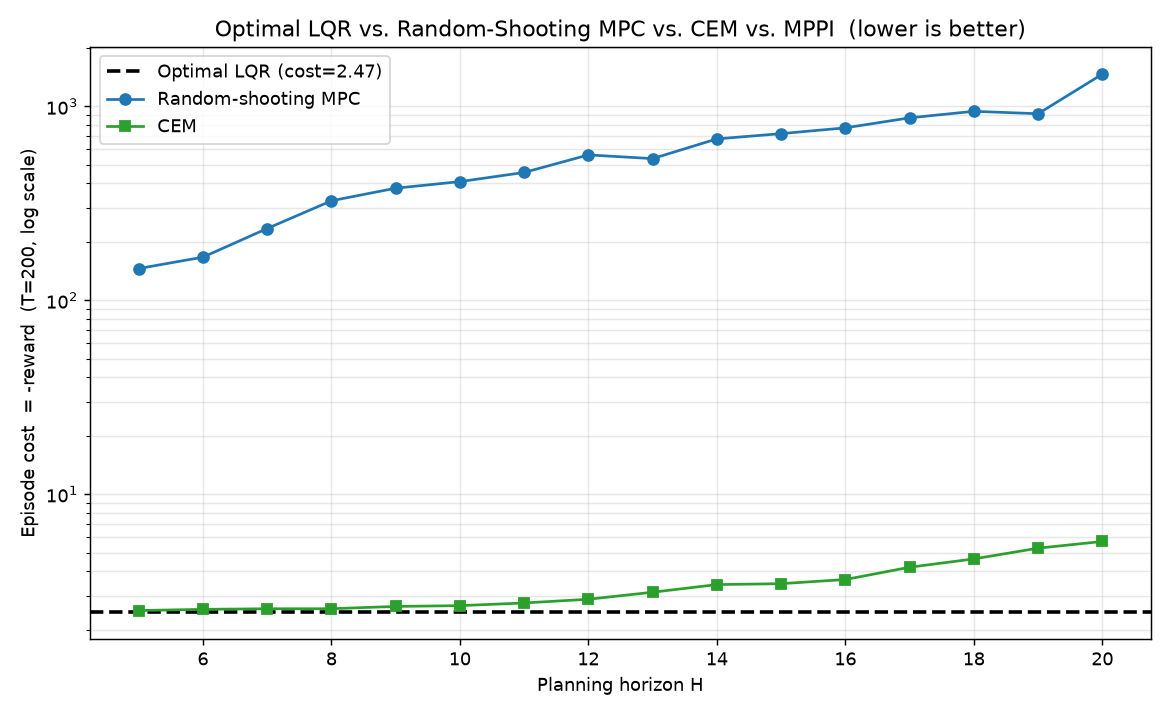
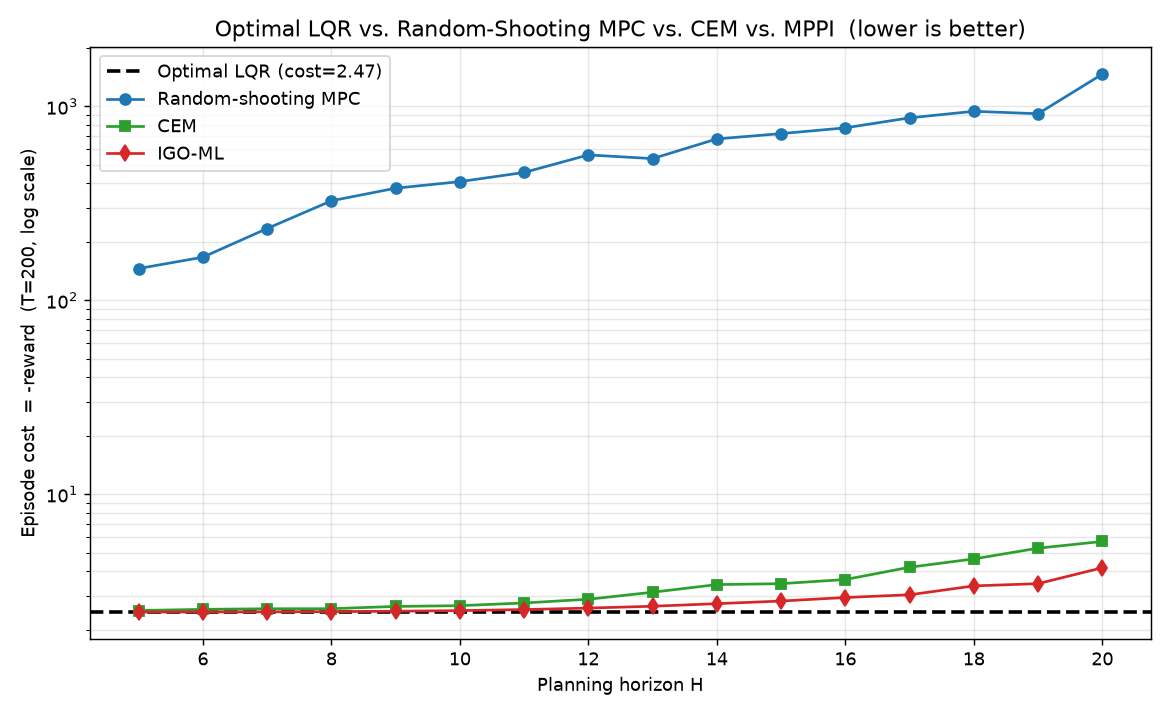
Implement IGO

diff --git a/IGO.py b/IGO.py
@@ -1,0 +1,141 @@
+"""
+IGO-ML planner for MPC
+======================
+
+A drop-in sibling of the Phase II planners (see ``phase2.py``).  Where CEM
+*hard-replaces* the Gaussian each iteration (``mu, sigma <- elite mean/std``),
+IGO-ML performs a **soft** (step-size ``dt``) update of the natural parameters
+and adds a *variance-injection* term that counteracts premature convergence:
+
+    variance_injection = dt * (1 - dt) * (mu_star - mu)^2
+    sigma^2 <- (1 - dt) * sigma^2 + dt * sigma_star^2 + variance_injection
+    mu      <- (1 - dt) * mu      + dt * mu_star
+
+This is exactly the update studied on the toy linear problem in
+``premature.py`` -- here it is lifted from a scalar to the
+(horizon x action_dim) sampling distribution over action sequences and used as
+the inner loop of MPC, with the same warm-start / receding-horizon wrapper as
+CEM and MPPI.
+
+Note: with ``dt = 1`` the injection term vanishes and the update reduces to
+plain CEM (``mu = mu_star``, ``sigma^2 = sigma_star^2``); ``dt < 1`` is what
+makes IGO-ML a *smoothed* CEM that resists collapsing the search variance.
+"""
+
+from __future__ import annotations
+
+import numpy as np
+
+from lqr_env import LQREnv
+
+# reuse the shared trajectory-evaluation and rollout helpers from Phase II so
+# IGO plugs into exactly the same MPC harness as CEM / MPPI.
+from phase2 import _rollout_returns, run_episode
+
+
+# --------------------------------------------------------------------------- #
+# IGO-ML
+# --------------------------------------------------------------------------- #
+class IGOPlanner:
+    def __init__(
+        self,
+        env: LQREnv,
+        horizon: int = 15,
+        num_samples: int = 1000,
+        num_elites: int = 50,
+        max_iters: int = 1000,
+        sigma_init: float = 0.2,
+        dt: float = 0.5,
+        tol_mu: float = 1e-3,
+        tol_sigma: float = 1e-3,
+        gamma: float = 1.0,
+        seed: int | None = None,
+    ):
+        """
+        Parameters
+        ----------
+        horizon      : planning horizon H.
+        num_samples  : sequences sampled per iteration (N).
+        num_elites   : how many top sequences drive the update (K).
+        max_iters    : iteration budget I per timestep.
+        sigma_init   : std the Gaussian is (re)initialized to each timestep.
+        dt           : IGO-ML step size in (0, 1].  dt=1 recovers CEM; smaller
+                       dt gives a slower, variance-preserving update.
+        tol_mu       : stop when ||mu - mu_prev|| < tol_mu.
+        tol_sigma    : stop when max(sigma) < tol_sigma (distribution collapsed).
+        gamma        : discount for the planned return.
+        """
+        self.env = env
+        self.horizon = int(horizon)
+        self.num_samples = int(num_samples)
+        self.num_elites = int(num_elites)
+        self.max_iters = int(max_iters)
+        self.sigma_init = float(sigma_init)
+        self.dt = float(dt)
+        self.tol_mu = float(tol_mu)
+        self.tol_sigma = float(tol_sigma)
+        self.gamma = float(gamma)
+        self.rng = np.random.default_rng(seed)
+        self.reset()
+
+    def reset(self) -> None:
+        """Clear the warm-started mean (call between episodes)."""
+        self.mu = np.zeros((self.horizon, self.env.action_dim))
+
+    def plan(self, state: np.ndarray) -> np.ndarray:
+        H, N, K = self.horizon, self.num_samples, self.num_elites
+        adim = self.env.action_dim
+        lo, hi = self.env.action_low, self.env.action_high
+        dt = self.dt
+
+        mu = self.mu                                   # warm-started mean
+        sigma = np.full((H, adim), self.sigma_init)    # reset exploration std
+
+        for times in range(self.max_iters):
+            mu_prev = mu
+
+            # 1. sample + clip
+            noise = self.rng.normal(size=(N, H, adim))
+            actions = np.clip(mu + sigma * noise, lo, hi)
+
+            # 2. evaluate
+            returns = _rollout_returns(self.env, state, actions, self.gamma)
+
+            # 3. top-K elites
+            elite_idx = np.argpartition(returns, -K)[-K:]
+            elites = actions[elite_idx]
+
+            # 4. elite statistics
+            mu_star = elites.mean(axis=0)
+            sigma_sq_star = elites.var(axis=0)
+
+            # 5. IGO-ML soft update (in variance space) + variance injection
+            sigma_sq = sigma ** 2
+            variance_injection = dt * (1 - dt) * (mu_star - mu) ** 2
+            sigma_sq = (1 - dt) * sigma_sq + dt * sigma_sq_star + variance_injection
+            mu = (1 - dt) * mu + dt * mu_star
+            sigma = np.sqrt(sigma_sq)
+
+            # convergence
+            if np.linalg.norm(mu - mu_prev) < self.tol_mu or sigma.max() < self.tol_sigma:
+                break
+
+        action = mu[0].copy()
+        if times == self.max_iters - 1:
+            print("\nHit Max Iter")
+        # warm start: shift the plan forward by one step
+        self.mu = np.vstack([mu[1:], np.zeros((1, adim))])
+        return action
+
+    def act(self, state: np.ndarray) -> np.ndarray:
+        return self.plan(state)
+
+
+if __name__ == "__main__":
+    env = LQREnv(noise_std=0.0, seed=0)
+    s0 = np.array([1.0, -1.0, 0.5])
+
+    igo = IGOPlanner(env, horizon=15, num_samples=1000, dt=0.5, seed=0)
+    total, traj = run_episode(env, igo, init_state=s0, T=200)
+    print(f"IGO-ML (H=15, N=1000, K=50, dt=0.5) reward (T=200): {total:.4f}")
+    print(f"  final state: {np.round(traj[-1], 5)}")

diff --git a/premature.py b/premature.py
@@ -1,0 +1,73 @@
+import numpy as np
+import matplotlib.pyplot as plt
+
+def linear_function(x):
+    """A simple linear objective function."""
+    return x
+
+def get_variance_trajectory(dt, q=0.25, N=2000, iterations=50):
+    """
+    Runs IGO-ML and returns the history of variance.
+    """
+    mu = 0.0
+    sigma_sq = 1.0
+    num_elites = max(1, int(N * q))
+    
+    variance_history = [sigma_sq]
+    
+    for _ in range(iterations):
+        # 1. Sample N points
+        samples = np.random.normal(mu, np.sqrt(sigma_sq), N)
+        
+        # 2. Evaluate fitness
+        fitness = linear_function(samples)
+        
+        # 3. Select elites
+        elite_indices = np.argsort(fitness)[::-1][:num_elites]
+        elites = samples[elite_indices]
+        
+        # 4. Elite statistics
+        mu_star = np.mean(elites)
+        sigma_sq_star = np.var(elites)
+        
+        # 5. IGO-ML parameter updates
+        variance_injection = dt * (1 - dt) * (mu_star - mu)**2
+        sigma_sq = (1 - dt) * sigma_sq + dt * sigma_sq_star + variance_injection
+        mu = (1 - dt) * mu + dt * mu_star
+        
+        variance_history.append(sigma_sq)
+        
+    return variance_history
+
+# --- Plotting Setup ---
+maxdt = 0.55
+dts = np.arange(0.05, maxdt, 0.05)
+q = 0.25
+iterations = 50
+
+plt.figure(figsize=(10, 6))
+colormap = plt.get_cmap('viridis')
+
+for i, dt in enumerate(dts):
+    # Get the color from the colormap based on the index
+    color = colormap(i / len(dts))
+    
+    # Run simulation
+    history = get_variance_trajectory(dt, q=q, iterations=iterations)
+    
+    # Plot the line
+    plt.plot(range(iterations + 1), history, color=color, linewidth=1.5)
+
+# Create a colorbar to act as a legend for \delta t
+sm = plt.cm.ScalarMappable(cmap=colormap, norm=plt.Normalize(vmin=0.05, vmax=maxdt))
+sm.set_array([]) # Dummy array for the colorbar
+cbar = plt.colorbar(sm, ax=plt.gca())
+cbar.set_label(r'Step Size ($\delta t$)', fontsize=12)
+
+plt.title(r'IGO-ML Variance Trajectories over Iterations ($q=0.25$)', fontsize=14)
+plt.xlabel('Iterations', fontsize=12)
+plt.ylabel(r'Variance ($\sigma^2$)', fontsize=12)
+plt.yscale('log') # Log scale helps visualize both stabilizing and exploding variances
+plt.grid(True, which="both", ls="--", alpha=0.5)
+plt.tight_layout()
+plt.show()

diff --git a/compare.py b/compare.py
@@ -40,6 +40,7 @@ from lqr_env import LQREnv
 from optimal import LQRController, run_episode as run_optimal_episode
 from phase1 import RandomShootingMPC, run_episode as run_mpc_episode
 from phase2 import CEMPlanner, MPPIPlanner, run_episode as run_plan_episode
+from IGO import IGOPlanner
 
 
 # --------------------------------------------------------------------------- #
@@ -62,6 +63,12 @@ CEM_ITERS = 1000                           # CEM max iterations per step (rely o
 MPPI_ITERS = 1000                          # MPPI max iterations per step (rely on tol)
 TEMPERATURE = 20.0                         # MPPI softmax lambda
 
+# IGO-ML specifics.  Same proposal/elites as CEM, but a soft update with step
+# size IGO_DT (< 1) plus a variance-injection term that resists premature
+# convergence.  IGO_DT = 1 would recover CEM exactly.
+IGO_ITERS = 1000                           # IGO max iterations per step (rely on tol)
+IGO_DT = 0.5                               # IGO-ML step size (soft update rate)
+
 
 RESULTS_FILE = "compare_results.npz"
 
@@ -69,7 +76,8 @@ RESULTS_FILE = "compare_results.npz"
 # cached results are stale and the sweep is re-run automatically.
 CONFIG_SIG = np.array([
     T, NUM_SAMPLES, SIGMA, SEED, REFINE_SIGMA, NUM_ELITES,
-    CEM_ITERS, MPPI_ITERS, TEMPERATURE, *INIT_STATE, *HORIZONS,
+    CEM_ITERS, MPPI_ITERS, TEMPERATURE, IGO_ITERS, IGO_DT,
+    *INIT_STATE, *HORIZONS,
 ], dtype=np.float64)
 
 
@@ -103,8 +111,8 @@ def run_sweep():
     print("-" * 70)
 
     # ---- 2) planners over horizons -------------------------------------- #
-    mpc_rewards, cem_rewards, mppi_rewards = [], [], []
-    print(f"{'H':>3} | {'MPC reward':>14} | {'CEM reward':>14} | {'MPPI reward':>14}")
+    mpc_rewards, cem_rewards, mppi_rewards, igo_rewards = [], [], [], []
+    print(f"{'H':>3} | {'MPC reward':>14} | {'CEM reward':>14} | {'IGO reward':>14}")
     print("-" * 70)
     for H in HORIZONS:
         env = make_env()
@@ -120,6 +128,13 @@ def run_sweep():
         )
         r_cem, _ = run_plan_episode(env, cem, init_state=INIT_STATE, T=T)
 
+        env = make_env()
+        igo = IGOPlanner(
+            env, horizon=H, num_samples=NUM_SAMPLES, num_elites=NUM_ELITES,
+            max_iters=IGO_ITERS, sigma_init=REFINE_SIGMA, dt=IGO_DT, seed=SEED,
+        )
+        r_igo, _ = run_plan_episode(env, igo, init_state=INIT_STATE, T=T)
+
         # env = make_env()
         # mppi = MPPIPlanner(
         #     env, horizon=H, num_samples=NUM_SAMPLES, temperature=TEMPERATURE,
@@ -129,15 +144,17 @@ def run_sweep():
 
         mpc_rewards.append(r_mpc)
         cem_rewards.append(r_cem)
+        igo_rewards.append(r_igo)
         # mppi_rewards.append(r_mppi)
         # print(f"{H:>3} | {r_mpc:>14.3f} | {r_cem:>14.3f} | {r_mppi:>14.3f}")
-        print(f"{H:>3} | {r_mpc:>14.3f} | {r_cem:>14.3f} ")  # 這裡先不要有 MPPI 要的話再上面那一行
+        print(f"{H:>3} | {r_mpc:>14.3f} | {r_cem:>14.3f} | {r_igo:>14.3f}")
 
     results = dict(
         horizons=np.array(HORIZONS),
         opt_reward=np.float64(opt_reward),
         mpc_rewards=np.array(mpc_rewards),
         cem_rewards=np.array(cem_rewards),
+        igo_rewards=np.array(igo_rewards),
         # mppi_rewards=np.array(mppi_rewards),
         config_sig=CONFIG_SIG,
     )
@@ -166,12 +183,14 @@ def main():
     opt_reward = float(results["opt_reward"])
     mpc_rewards = list(results["mpc_rewards"])
     cem_rewards = list(results["cem_rewards"])
+    igo_rewards = list(results["igo_rewards"])
     # mppi_rewards = list(results["mppi_rewards"])
 
     # ---- 3) plot (cost = -reward, log scale) ---------------------------- #
     opt_cost = -opt_reward
     mpc_cost = [-r for r in mpc_rewards]
     cem_cost = [-r for r in cem_rewards]
+    igo_cost = [-r for r in igo_rewards]
     # mppi_cost = [-r for r in mppi_rewards]
 
     def make_plot(out: str, h_min: int) -> None:
@@ -184,6 +203,7 @@ def main():
         plt.plot(hs, [mpc_cost[i] for i in idx], "o-", color="tab:blue",
                  label="Random-shooting MPC")
         plt.plot(hs, [cem_cost[i] for i in idx], "s-", color="tab:green", label="CEM")
+        plt.plot(hs, [igo_cost[i] for i in idx], "d-", color="tab:red", label="IGO-ML")
         # plt.plot(hs, [mppi_cost[i] for i in idx], "^-", color="tab:orange", label="MPPI")
         plt.yscale("log")
         plt.xlabel("Planning horizon H")
@@ -196,7 +216,7 @@ def main():
         plt.close()
 
     def make_plot_refine(out: str, h_min: int, y_break: float = 18.0) -> None:
-        """CEM vs. optimal, with a BROKEN y-axis.
+        """CEM & IGO-ML vs. optimal, with a BROKEN y-axis.
 
         The bottom panel is linear up to ``y_break`` (where all the interesting
         behaviour lives); costs above it (the diverging short horizons) are shown
@@ -205,6 +225,7 @@ def main():
         idx = [i for i, H in enumerate(HORIZONS) if H >= h_min]
         hs = [HORIZONS[i] for i in idx]
         cem = [cem_cost[i] for i in idx]
+        igo = [igo_cost[i] for i in idx]
 
         fig, (ax_hi, ax_lo) = plt.subplots(
             2, 1, sharex=True, figsize=(9, 6),
@@ -215,19 +236,24 @@ def main():
             ax.axhline(opt_cost, color="black", ls="--", lw=2,
                        label=f"Optimal LQR (cost={opt_cost:.2f})")
             ax.plot(hs, cem, "s-", color="tab:green", label="CEM")
+            ax.plot(hs, igo, "d-", color="tab:red", label="IGO-ML")
             ax.grid(True, alpha=0.3)
 
-        # mark CEM's lowest-cost (best) horizon with a star
+        # mark each planner's lowest-cost (best) horizon with a star
         cem_i = int(np.argmin(cem))
+        igo_i = int(np.argmin(igo))
         for ax in (ax_hi, ax_lo):
             ax.plot(hs[cem_i], cem[cem_i], "*", color="tab:green", ms=20,
                     mec="black", mew=0.8, zorder=6,
                     label=f"CEM best (H={hs[cem_i]}, cost={cem[cem_i]:.2f})")
+            ax.plot(hs[igo_i], igo[igo_i], "*", color="tab:red", ms=20,
+                    mec="black", mew=0.8, zorder=6,
+                    label=f"IGO-ML best (H={hs[igo_i]}, cost={igo[igo_i]:.2f})")
 
         # bottom: linear detail range
         ax_lo.set_ylim(opt_cost - 0.5, y_break)
         # top: log scale covering the diverging costs
-        big = [c for c in cem if c > y_break]
+        big = [c for c in cem + igo if c > y_break]
         top_lo = 10 ** np.floor(np.log10(min(big)))
         top_hi = 10 ** np.ceil(np.log10(max(big)))
         ax_hi.set_yscale("log")
@@ -239,7 +265,7 @@ def main():
         ax_hi.tick_params(bottom=False)
         _draw_break(ax_hi, ax_lo)
 
-        ax_hi.set_title("CEM vs. Optimal LQR  (lower is better)")
+        ax_hi.set_title("CEM & IGO-ML vs. Optimal LQR  (lower is better)")
         ax_lo.set_xlabel("Planning horizon H")
         fig.supylabel(f"Episode cost  = -reward  (T={T})")
         ax_hi.legend(loc="upper right")
@@ -260,10 +286,12 @@ def main():
     # ---- 4) takeaways --------------------------------------------------- #
     best_H = HORIZONS[int(np.argmax(mpc_rewards))]
     best_H_cem = HORIZONS[int(np.argmax(cem_rewards))]
+    best_H_igo = HORIZONS[int(np.argmax(igo_rewards))]
     # best_H_mppi = HORIZONS[int(np.argmax(mppi_rewards))]
     print(f"\nOptimal episode reward          : {opt_reward:10.3f}")
     print(f"Best random-shooting MPC : H={best_H:<3} reward {max(mpc_rewards):10.3f}")
     print(f"Best CEM                 : H={best_H_cem:<3} reward {max(cem_rewards):10.3f}")
+    print(f"Best IGO-ML              : H={best_H_igo:<3} reward {max(igo_rewards):10.3f}")
     # print(f"Best MPPI                : H={best_H_mppi:<3} reward {max(mppi_rewards):10.3f}")
     print(f"\nH=1  random-shooting MPC : {mpc_rewards[0]:.3e}  (diverges -- short-horizon failure)")
     print("=> Refining the sampling distribution (CEM / MPPI) keeps planning close")